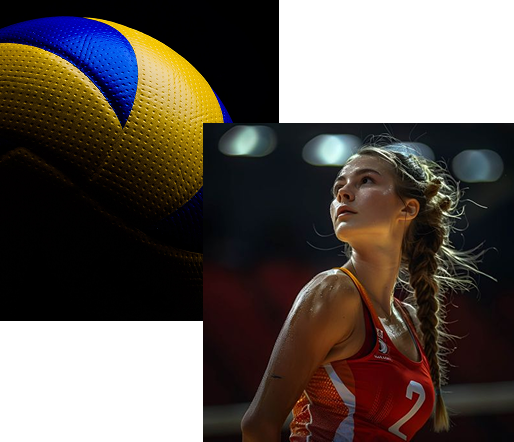
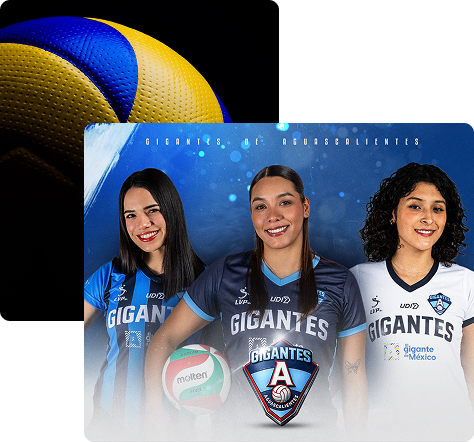
Corregir zona horaria GMT-6 en fechas, actualizar galerÃa con imÃ¡genes reales, agregar X/Twitter en footer y social float

diff --git a/src/components/Partidos.vue b/src/components/Partidos.vue
@@ -100,17 +100,34 @@ const loading = ref(true);
 const error = ref(false);
 const swiperInstance = ref(null);
 
+// Función para crear una fecha en zona horaria local desde fecha y hora en formato CST
+const crearFechaCST = (fecha, hora) => {
+  // Parsear fecha y hora manualmente: "2026-01-17" y "20:00"
+  const [año, mes, dia] = fecha.split('-');
+  const [horas, minutos] = hora.split(':');
+  
+  // Crear fecha usando los componentes directamente (se interpretará en zona horaria local)
+  // Esto evita que JavaScript interprete la fecha como UTC
+  return new Date(
+    parseInt(año),
+    parseInt(mes) - 1, // Los meses en Date son 0-indexados
+    parseInt(dia),
+    parseInt(horas),
+    parseInt(minutos)
+  );
+};
+
 // Función para verificar si un partido ya pasó
 const yaPaso = (partido) => {
   const ahora = new Date();
-  const fechaHoraPartido = new Date(`${partido.fecha}T${partido.hora}:00`);
+  const fechaHoraPartido = crearFechaCST(partido.fecha, partido.hora);
   return fechaHoraPartido < ahora;
 };
 
 // Función para verificar si un partido es futuro
 const esFuturo = (partido) => {
   const ahora = new Date();
-  const fechaHoraPartido = new Date(`${partido.fecha}T${partido.hora}:00`);
+  const fechaHoraPartido = crearFechaCST(partido.fecha, partido.hora);
   return fechaHoraPartido >= ahora;
 };
 
@@ -162,12 +179,14 @@ const loadScript = (src) => {
 };
 
 const formatearFecha = (fecha) => {
-  const date = new Date(fecha);
+  // Parsear la fecha manualmente para evitar problemas de zona horaria
+  // La fecha viene en formato "YYYY-MM-DD" y debe interpretarse en GMT-6 (CST)
+  const [año, mes, dia] = fecha.split('-');
   const meses = [
     'enero', 'febrero', 'marzo', 'abril', 'mayo', 'junio',
     'julio', 'agosto', 'septiembre', 'octubre', 'noviembre', 'diciembre'
   ];
-  return `${date.getDate()} de ${meses[date.getMonth()]} ${date.getFullYear()}`;
+  return `${dia} de ${meses[parseInt(mes) - 1]} ${año}`;
 };
 
 const getLogoUrl = (logo) => {
